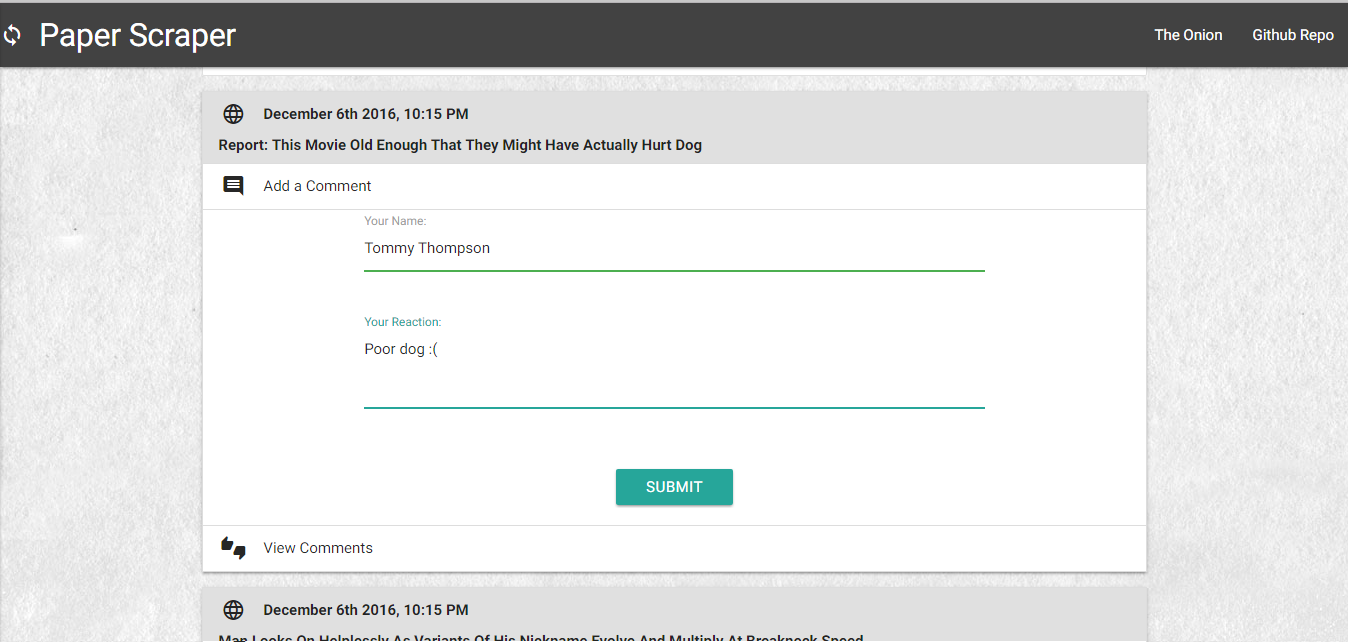
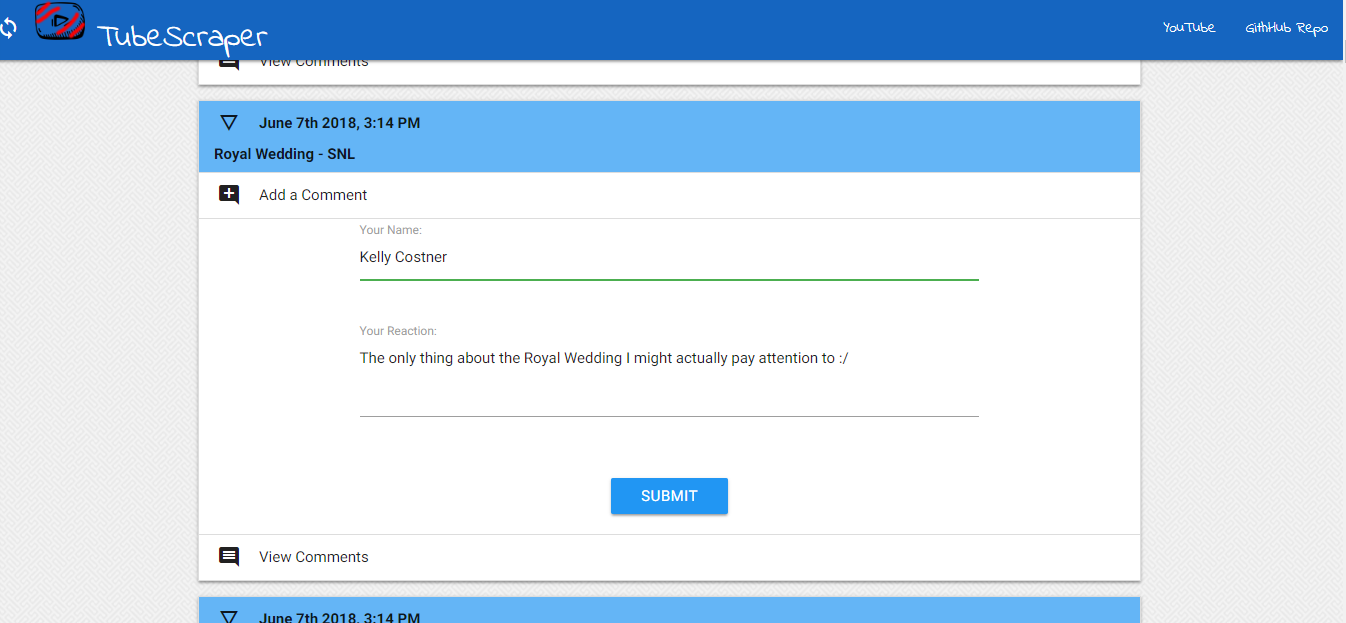
Pretty much all done

diff --git a/README.md b/README.md
@@ -1,10 +1,11 @@
-# :newspaper: Paper Scraper (aka Onion Peeler) :trollface:
-A `Node.js` &amp; `MongoDB` webapp that web-scrapes news data from [The Onion](http://www.theonion.com/) and allows users to comment about what they have read. Users can also delete unwanted comments.
+# ![TubeScraper Logo](/public/assets/images/tubeScraper.png)
+# TubeScraper
+A `Node.js` &amp; `MongoDB` webapp that scrapes news data from [YouTube](https://www.youtube.com/) and allows users to comment about the videos. Users can also delete unwanted comments.
 
-Please check out the deployed version in Heroku [here](http://paper-scraper.herokuapp.com/)!
+Checkout the deployed app on Heroku [here](http://tube-scraper.herokuapp.com/).
 
 
-## Functionality
+## How it works
 On the backend, the app uses `express` to serve routes and `mongoose` to interact with a `MongoDB` database.
 
 On the frontend, the app uses `handlebars` for templating each video and `materialize` as a styling framework. The app also uses `jQuery` and `AJAX` to help with making post requests.
@@ -14,8 +15,8 @@ And for webscraping, the app uses the `request` and `cheerio` node packages. All
 
 ## Cloning down the repo
 If you wish to clone the app down to your local machine...
-  1. Ensure that you have MongoDB set up on your laptop
-    * An amazing repo to get you started with that can be found [here](https://github.com/dannyvassallo/mongo_lesson).
+  1. Ensure that you have MongoDB set up on your computer
+    * [Here](https://github.com/dannyvassallo/mongo_lesson) is a helpful tutorial.
   2. Once you are set up, `cd` into this repo and run `npm install`.
   3. Then open another bash or terminal window and run `mongod`
   4. Run the script with `node server.js`.
@@ -23,20 +24,20 @@ If you wish to clone the app down to your local machine...
 
 
 ## Screenshots
-#### The `/videos` route renders all the news videos
+#### The `/videos` route renders all the videos organized in article format
 ![All Videos](/screenshots/content.png)
 
-#### Click on the globe icon to view the content.
+#### Click on the Details icon to view the details of the video.
 ![Video Content](/screenshots/video.png)
 
-#### Click the Chat Bubble icon to add a comment via the `/add/comment/:id` post route
+#### Click the Add Comment icon to add a comment via the `/add/comment/:id` post route
 ![Add Comment](/screenshots/add-comment.png)
 
-#### Click the Thumbs up/down icon to view comments
+#### Click the Comments icon to view comments
 ![View Comment](/screenshots/view-comment.png)
 
 #### Click the Delete button to remove rude comments via the `remove/comment/:id` route
 ![Delete Comment](/screenshots/delete-comment.png)
 
-#### Note that the web scraping occurs on the `/scrape` route.
-#### On visiting the index route, `/`, express redirects to `/scrape` and then `/videos` routes
+#### Scraping occurs on the `/scrape` route.
+#### When visiting the index route, `/`, express redirects to `/scrape` and then `/videos` routes
